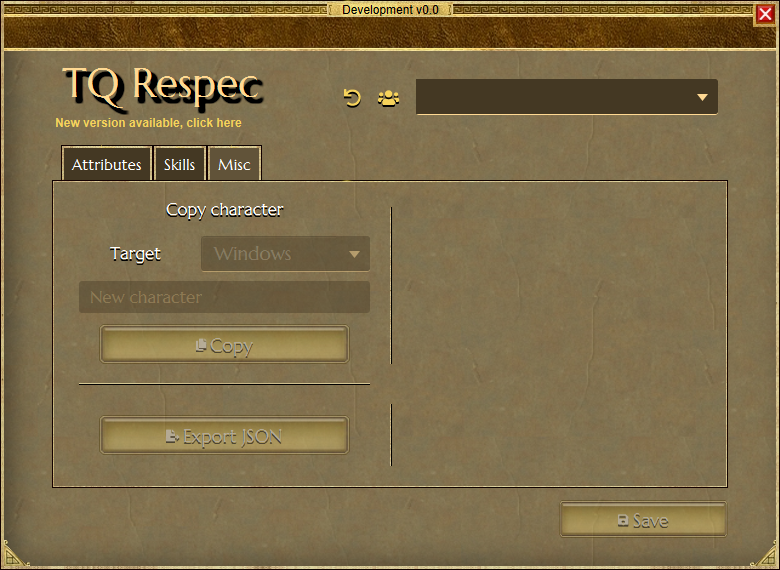
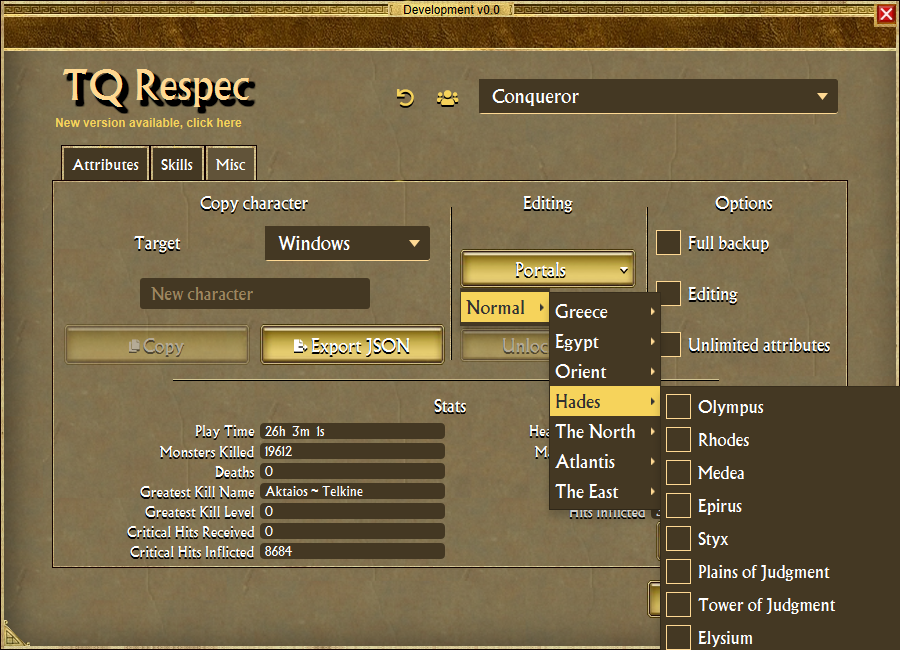
Version 1.0.0

diff --git a/CHANGELOG.md b/CHANGELOG.md
@@ -1,4 +1,28 @@
 # Changelog
+## [1.0.0] - 2025-05-08
+### Fixed
+- Fixed linux script not passing debug parameter
+- Updated google-guava library, fixes a bug
+- Minor UI improvents and fixes
+
+### Changed
+- Improved Linux support
+
+### Added
+- Full backup of character, can be enabled in Misc tab
+- Detect Steam game and savegame paths on Linux
+- Electrum
+- Editing of Skill points available
+- Gold editing
+- Electrum editing
+- Level editing
+- Unrestricted attributes editing (not locked by points available)
+- Reset character stats
+- Teleports add/remove
+- Automatic 'Legendary Hero' restriction removal when unlocking teleports to normal/epic difficulties
+- Unlocks all inventory bags
+- More tests to improve reliability
+
 ## [0.14.0] - 2025-01-19
 ### Fixed
 - Don't remove altMoney(Electrum) when converting save to mobile, issue #54

diff --git a/README.md b/README.md
@@ -6,7 +6,6 @@
 [![Release Date](https://img.shields.io/github/release-date/epinter/tqrespec.svg)](https://github.com/epinter/tqrespec/releases/latest)
 [![Steam views](https://img.shields.io/steam/views/1262483108.svg)](https://steamcommunity.com/sharedfiles/filedetails/?id=1262483108)
 [![License](https://img.shields.io/github/license/epinter/tqrespec.svg)](https://github.com/epinter/tqrespec/blob/master/LICENSE)
-[![Quality Gate Status](https://sonarcloud.io/api/project_badges/measure?project=epinter_tqrespec&metric=alert_status)](https://sonarcloud.io/dashboard?id=epinter_tqrespec)
 
 ## Introduction
 
